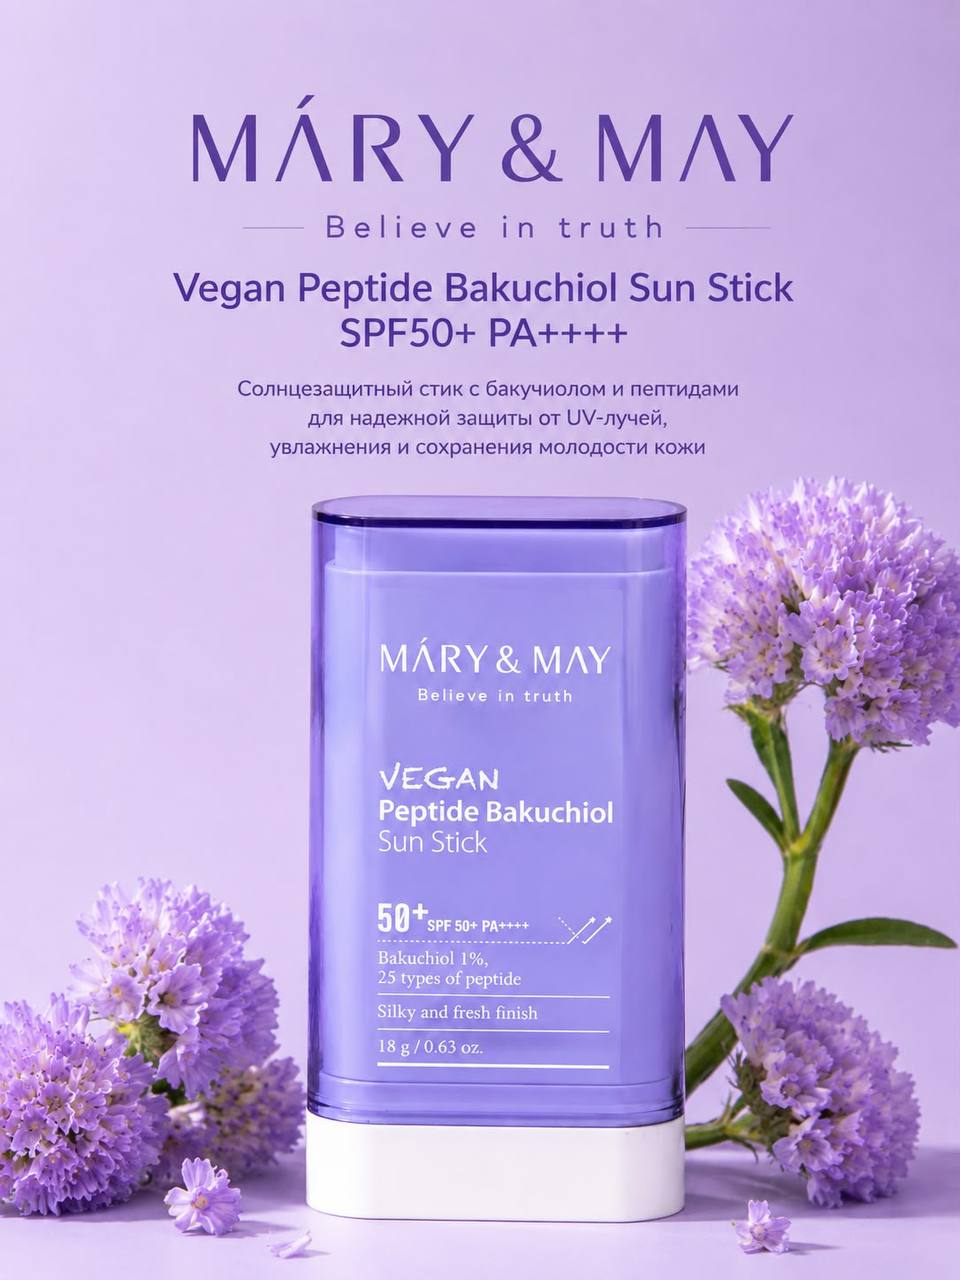
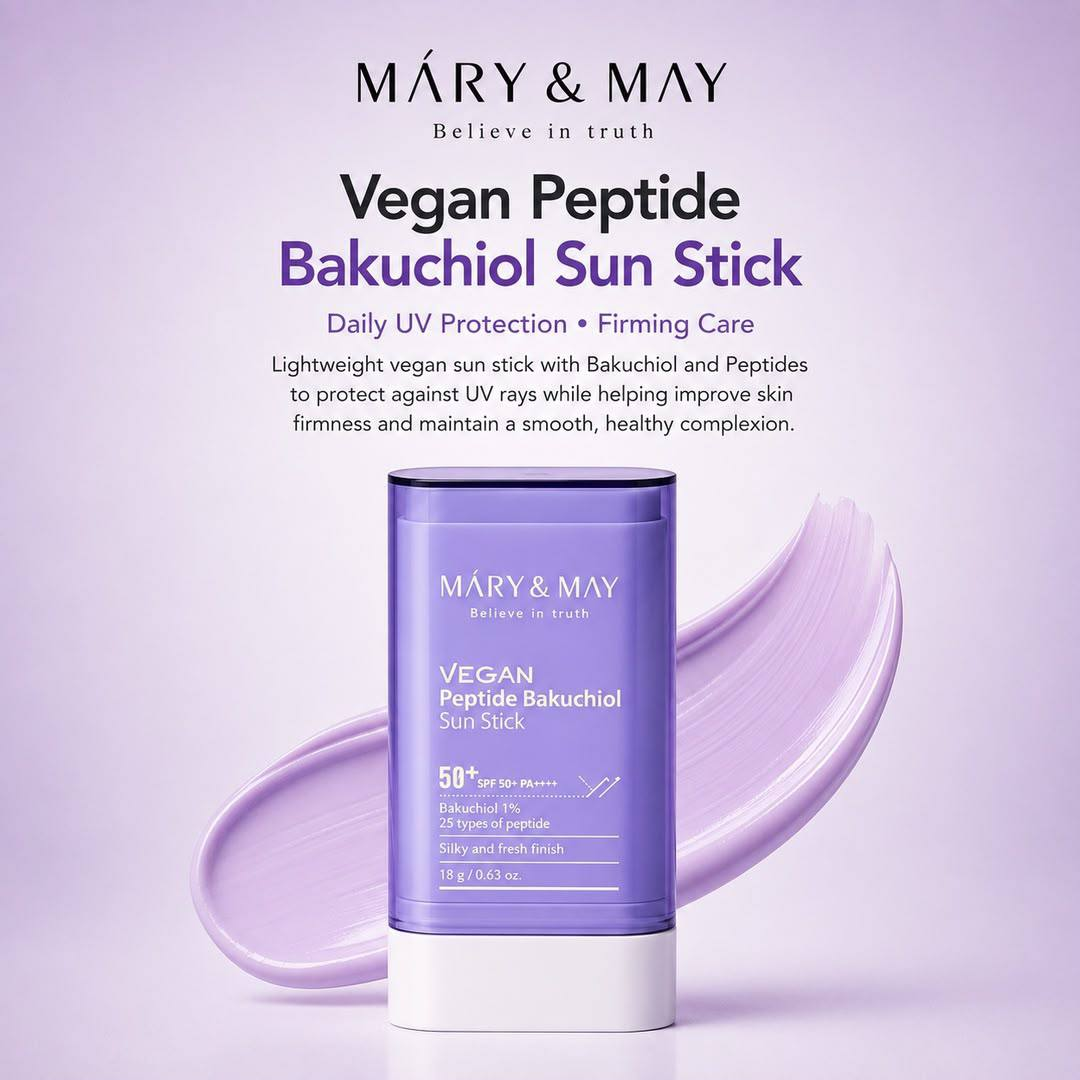
Update Mary & May Bakuchiol Sun Stick text (UA/EN/RU) and image

diff --git a/src/data/products.js b/src/data/products.js
@@ -1596,21 +1596,51 @@ export const maryMayProducts = [
     brand: 'MÁRY & MAY',
     line: 'VEGAN PEPTIDE BAKUCHIOL',
     nameEn: 'VEGAN PEPTIDE BAKUCHIOL SUN STICK SPF50+ PA++++',
-    nameRu: 'СОЛНЦЕЗАЩИТНЫЙ СТИК С БАКУЧИОЛОМ И ПЕПТИДАМИ',
-    subtitle: 'Солнцезащитный стик с бакучиолом и комплексом пептидов SPF50+ PA++++',
+    nameUa: 'СОНЦЕЗАХИСНИЙ СТІК ІЗ БАКУЧІОЛОМ ТА ПЕПТИДАМИ SPF50+ PA++++',
+    nameRu: 'СОЛНЦЕЗАЩИТНЫЙ СТИК С БАКУЧИОЛОМ И ПЕПТИДАМИ SPF50+ PA++++',
+    subtitleEn: 'Lightweight vegan sun stick with Bakuchiol and Peptides SPF50+ PA++++',
+    subtitleUa: 'Легкий веганський сонцезахисний стік із бакучіолом і пептидами SPF50+ PA++++',
+    subtitleRu: 'Легкий веганский солнцезащитный стик с бакучиолом и пептидами SPF50+ PA++++',
     volume: '18 г',
     price: 2300,
-    image: '/images/123.jpg',
+    image: '/images/mary-may-bakuchiol-sun-stick.jpg',
     accentColor: '#6b5b95',
-    description: 'Солнцезащитный стик с бакучиолом и комплексом пептидов надежно защищает от UVA- и UVB-лучей, увлажняет кожу и помогает сохранить ее упругость.',
-    benefits: [
-      { icon: '☀', title: 'НАДЕЖНАЯ UV-ЗАЩИТА',  desc: 'SPF50+ PA++++ защищает кожу от фотостарения, пигментации и негативного воздействия солнечных лучей.' },
-      { icon: '✨', title: 'АНТИВОЗРАСТНОЙ УХОД',     desc: 'Бакучиол и комплекс из 25 пептидов повышают упругость кожи, уменьшают мелкие морщины и поддерживают синтез коллагена.' },
-      { icon: '💧', title: 'УВЛАЖНЕНИЕ И КОМФОРТ',   desc: 'Поддерживает оптимальный уровень увлажнения, предотвращает сухость и дарит комфорт в течение дня.' },
-      { icon: '🌀', title: 'ЛЕГКОЕ ПОКРЫТИЕ',        desc: 'Быстро распределяется, не оставляет липкости, белых следов и жирного блеска. Подходит для обновления SPF поверх макияжа.' },
+    descriptionEn: 'A lightweight sun stick with Bakuchiol and Peptides that provides reliable protection against UVA and UVB rays while caring for the skin. Helps maintain firmness, smoothness and a natural glow.',
+    descriptionUa: 'Легкий сонцезахисний стік із бакучіолом і пептидами, який забезпечує надійний захист від UVA та UVB-променів, одночасно доглядаючи за шкірою. Допомагає підтримувати пружність, гладкість і природне сяйво.',
+    descriptionRu: 'Легкий солнцезащитный стик с бакучиолом и пептидами, который обеспечивает надежную защиту от UVA и UVB-лучей, одновременно ухаживая за кожей. Помогает поддерживать упругость, гладкость и естественное сияние.',
+    benefitsEn: [
+      { icon: '☀', title: 'SPF50+ PA++++', desc: 'High protection from the sun.' },
+      { icon: '🛡', title: 'PREVENTS PHOTOAGING', desc: 'Prevents photoaging and pigmentation.' },
+      { icon: '✨', title: 'BOOSTS FIRMNESS', desc: 'Improves skin firmness.' },
+      { icon: '💧', title: 'HYDRATES WITHOUT STICKINESS', desc: 'Hydrates without a sticky feel.' },
+      { icon: '🤍', title: 'NO WHITE CAST', desc: 'Leaves no white marks.' },
+      { icon: '🔄', title: 'EASY REAPPLICATION', desc: 'Convenient for reapplication.' },
     ],
-    ingredients: ['Бакучиол 1%', 'Комплекс из 25 пептидов', 'Увлажняющие компоненты'],
-    skinTypes: ['Все типы кожи', 'Чувствительная кожа', 'Кожа с первыми возрастными изменениями', 'Для ежедневной защиты от солнца'],
+    benefitsUa: [
+      { icon: '☀', title: 'SPF50+ PA++++', desc: 'Для високого захисту від сонця.' },
+      { icon: '🛡', title: 'ЗАПОБІГАЄ ФОТОСТАРІННЮ', desc: 'Запобігає фотостарінню та появі пігментації.' },
+      { icon: '✨', title: 'ПІДВИЩУЄ ПРУЖНІСТЬ', desc: 'Підвищує пружність шкіри.' },
+      { icon: '💧', title: 'ЗВОЛОЖУЄ БЕЗ ЛИПКОСТІ', desc: 'Зволожує без липкості.' },
+      { icon: '🤍', title: 'БЕЗ БІЛИХ СЛІДІВ', desc: 'Не залишає білих слідів.' },
+      { icon: '🔄', title: 'ЗРУЧНЕ ПОВТОРНЕ НАНЕСЕННЯ', desc: 'Зручний для повторного нанесення.' },
+    ],
+    benefitsRu: [
+      { icon: '☀', title: 'SPF50+ PA++++', desc: 'Для высокой защиты от солнца.' },
+      { icon: '🛡', title: 'ПРЕДОТВРАЩАЕТ ФОТОСТАРЕНИЕ', desc: 'Предотвращает фотостарение и появление пигментации.' },
+      { icon: '✨', title: 'ПОВЫШАЕТ УПРУГОСТЬ', desc: 'Повышает упругость кожи.' },
+      { icon: '💧', title: 'УВЛАЖНЯЕТ БЕЗ ЛИПКОСТИ', desc: 'Увлажняет без липкости.' },
+      { icon: '🤍', title: 'БЕЗ БЕЛЫХ СЛЕДОВ', desc: 'Не оставляет белых следов.' },
+      { icon: '🔄', title: 'УДОБНОЕ ПОВТОРНОЕ НАНЕСЕНИЕ', desc: 'Удобен для повторного нанесения.' },
+    ],
+    ingredientsEn: ['Bakuchiol – a plant-based retinol alternative that improves skin firmness', '25 types of peptides – support collagen synthesis', 'Moisturizing complex – provides skin comfort'],
+    ingredientsUa: ['Бакучіол – рослинна альтернатива ретинолу, покращує пружність шкіри', '25 видів пептидів – підтримують синтез колагену', 'Зволожувальний комплекс – забезпечує комфорт шкіри'],
+    ingredientsRu: ['Бакучиол – растительная альтернатива ретинолу, улучшает упругость кожи', '25 видов пептидов – поддерживают синтез коллагена', 'Увлажняющий комплекс – обеспечивает комфорт кожи'],
+    skinTypesEn: ['All skin types', 'For daily sun protection', 'For prevention of age-related changes'],
+    skinTypesUa: ['Для всіх типів шкіри', 'Для щоденного сонцезахисту', 'Для профілактики вікових змін'],
+    skinTypesRu: ['Для всех типов кожи', 'Для ежедневной защиты от солнца', 'Для профилактики возрастных изменений'],
+    usageEn: 'Apply as the last step of morning care 15–20 minutes before sun exposure. Reapply every 2–3 hours.',
+    usageUa: 'Нанесіть як останній етап ранкового догляду за 15–20 хвилин до виходу на сонце. Оновлюйте кожні 2–3 години.',
+    usageRu: 'Нанесите как последний этап утреннего ухода за 15–20 минут до выхода на солнце. Обновляйте каждые 2–3 часа.',
   },
   {
     id: 'mary-may-spicule-collagen-pdrn-cream',
